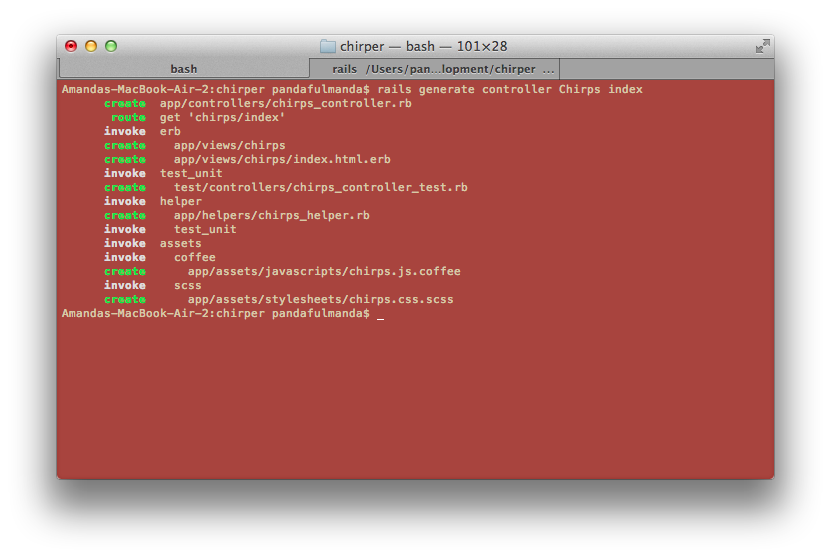
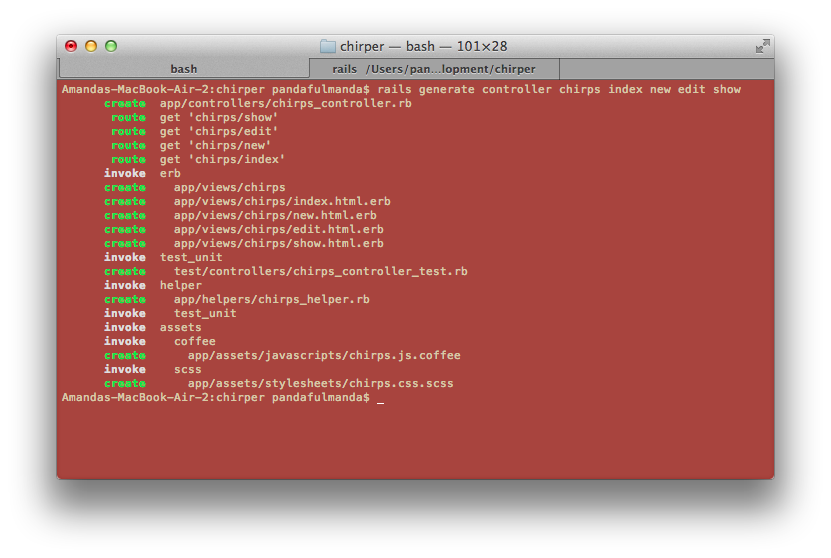
updates to messages step

Changed region(s): [[0.0602, 0.1828, 0.5716, 0.7312], [0.7822, 0.1523, 0.9025, 0.1828]]

diff --git a/03_messages/01_what_should_we_be_able_to_do_with_a_chirp.md b/03_messages/01_what_should_we_be_able_to_do_with_a_chirp.md
@@ -156,13 +156,24 @@ We can tell Rails to make a controller like we did before, with a few extra "`ac
 $ rails generate controller chirps index new edit show
 ```
 
-> Why generate the controller with actions `index`, `new`, `edit`, and `show`?
+The terminal should tell you that it's made some files, like last time:
+
+![](../images/terminal_chirps_controller.png)
+
+
+> Why generate the *chirps* controller with actions `index`, `new`, `edit`, and `show`?
 >
-> Rails will help set up the views for these actions for us as well.  If you look at the `rake routes` table, these actions (chirps#*index*, chirps#*new*, chirps#*edit*, and chirps#*show*) all have the verb 'GET'.  'GET' is that way we get pages automatically when we put the address in the browser.  These means these are the pages what will have some HTML content to them, just like the front-page.
+> Rails will help set up the pages for these actions for us as well.  If you look at the `rake routes` table, these actions (chirps#*index*, chirps#*new*, chirps#*edit*, and chirps#*show*) all have the verb 'GET'.  'GET' is the way we get pages automatically when we type the web address in the browser.  These means these are the pages what will have some HTML content to them, just like the front-page.
 
+<!-- Was going to put something here about deleted the freshly created routes since they are redundant, but perhaps this is not needed. -->
+
+Now, if we try going to [/chirps/new](http://localhost:3000/chirps/new) again, we should see:
+
+![](../images/chrome_try_chirps_new_again.png)
+
+
+**Lots to do here**
 <!-- Lots to do here -->
-
-
 
 
 
@@ -180,7 +191,10 @@ We can line up what we saw from `rake routes` for chirps with what we did in the
 |  | PUT | /chirps/:id(.:format) | chirps#update | `Chirp.find(id).update(body: 'a body')` |
 |  | DELETE | /chirps/:id(.:format) | chirps#destroy | `Chirp.find(id).destroy` |
 
-<!-- Actually putting things in controllers here -->
+
+**Actually putting things in controllers here**
+<!-- Lots to do here -->
 
 
-<!-- Brief views here -->
+**Brief views here**
+<!-- Lots to do here -->
